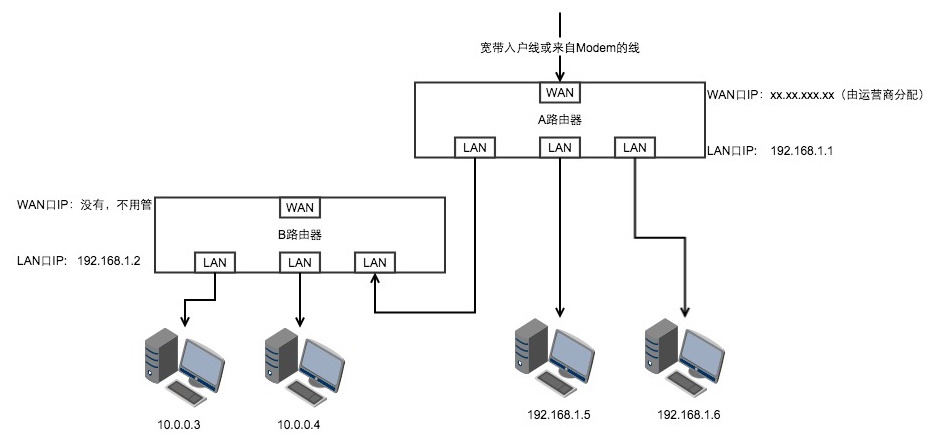
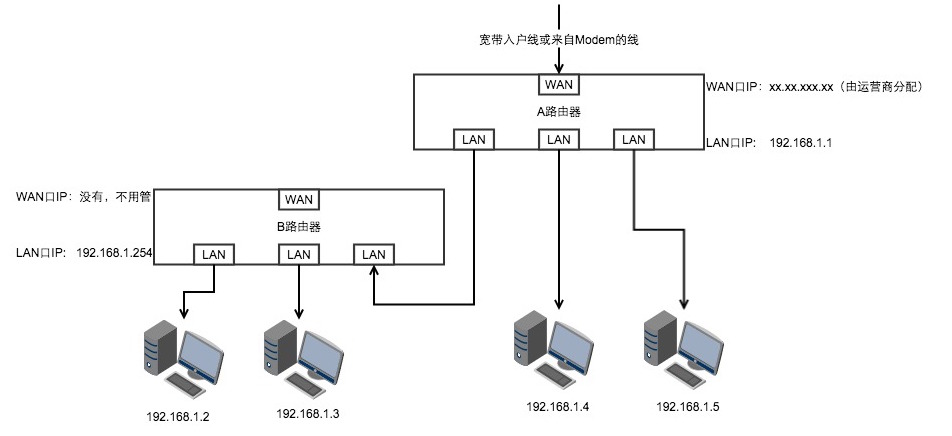
Site updated: 2015-08-31 00:28:40

Changed region(s): [[0.0, 0.03, 0.9893, 0.9885]]

diff --git a/post/set-multilevel-routers/index.html b/post/set-multilevel-routers/index.html
@@ -20,7 +20,7 @@
 <meta property="og:image" content="http://czzshr.com/img/set-mutilevel-routers-1.jpg">
 <meta property="og:image" content="http://czzshr.com/img/set-mutilevel-routers-2.jpg">
 <meta property="og:image" content="http://czzshr.com/img/set-mutilevel-routers-3.jpg">
-<meta property="og:updated_time" content="2015-08-22T12:13:27.000Z">
+<meta property="og:updated_time" content="2015-08-30T16:27:44.000Z">
 <meta name="twitter:card" content="summary">
 <meta name="twitter:title" content="设置多级路由器">
 <meta name="twitter:description" content="生活中我们很多情况下会设置多级路由，如一级路由器的无线信号太弱、一级路由器不能发射无线信号等原因。这种这种情况下就需要设置多级路由了。相比于仅仅设置一级路由来说，设置二级路由则麻烦了许多，一不小心，不光会自己上不了网，还可能会把别人也搞得上不了网。">
@@ -109,9 +109,9 @@
 <p>以后凡是接在B路由器LAN口上的电脑的IP地址的范围为“10.0.0.1”至“10.0.0.254”之间，子网掩码：255.255.255.0，网关：10.0.0.1，DNS：10.0.0.1。当然电脑也可选择“自动获得ip地址”和“自动获得DNS服务器地址”</p>
 <h3 id="1-3-_连接A路由器和B路由器">1.3. 连接A路由器和B路由器</h3><p>如下图所示，将宽带或Modem的LAN口与A路由器的WAN口相连，A路由器的LAN口与B路由器的WAN口用网线相连。至此，由两个路由器组建的局域网完成。<br><img src="http://czzshr.com/img/set-mutilevel-routers-2.jpg" alt=""></p>
 <h2 id="2-_路由用作交换机设置法">2. 路由用作交换机设置法</h2><h3 id="2-1-_对A路由器进行设置">2.1. 对A路由器进行设置</h3><p>将一台电脑与A路由器的LAN口相连（通过网线或者无线），打开浏览器在地址栏输入“192.168.1.1”，开启DHCP服务器；在路由器配置界面中将LAN接口设置为：192.168.1.1，子网掩码：255.255.255.0，WAN口地址按默认设置或从网络服务商那里获取。设置完成后重启A路由器。至此，A路由器的设置过程完成。</p>
-<p>以后凡是接在A路由器LAN口上的电脑的IP地址的范围为“192.168.1.3”至“192.168.1.254”之间，子网掩码：255.255.255.0，网关:192.168.1.1,DNS:192.168.1.1。当然电脑也可选择“自动获得ip地址”和“自动获得DNS服务器地址”</p>
-<h3 id="2-2-_对B路由器进行设置">2.2. 对B路由器进行设置</h3><p>将一台电脑与B路由器的LAN口相连（通过网线或者无线），打开浏览器在地址栏输入“192.168.1.1”，关闭DHCP服务器；WAN口地址按默认设置或从网络服务商那里获取；在路由器配置界面中将LAN接口设置为：192.168.1.2，子网掩码：255.255.255.0，设置完成后重启A路由器。至此，B路由器的设置过程完成。</p>
-<p>以后凡是接在B路由器LAN口上的电脑的IP地址的范围为“192.168.1.3”至“192.168.1.254”之间，子网掩码：255.255.255.0，网关:192.168.1.1,DNS:192.168.1.1。当然电脑也可选择“自动获得ip地址”和“自动获得DNS服务器地址”.</p>
+<p>以后凡是接在A路由器LAN口上的电脑的IP地址的范围为“192.168.1.2”至“192.168.1.253”之间，子网掩码：255.255.255.0，网关:192.168.1.1,DNS:192.168.1.1。当然电脑也可选择“自动获得ip地址”和“自动获得DNS服务器地址”</p>
+<h3 id="2-2-_对B路由器进行设置">2.2. 对B路由器进行设置</h3><p>将一台电脑与B路由器的LAN口相连（通过网线或者无线），打开浏览器在地址栏输入“192.168.1.1”，关闭DHCP服务器；WAN口地址设为“自动获得IP地址”；在路由器配置界面中将LAN接口设置为：192.168.1.254，子网掩码：255.255.255.0，设置完成后重启A路由器。至此，B路由器的设置过程完成。</p>
+<p>以后凡是接在B路由器LAN口上的电脑的IP地址的范围为“192.168.1.2”至“192.168.1.253”之间，子网掩码：255.255.255.0，网关:192.168.1.1,DNS:192.168.1.1。当然电脑也可选择“自动获得ip地址”和“自动获得DNS服务器地址”.</p>
 <h3 id="2-3-_连接A路由器和B路由器">2.3. 连接A路由器和B路由器</h3><p>如下图所示，将宽带或Modem的LAN口与A路由器的<strong>LAN口(两种方法最大的不同点)</strong>相连，A路由器的LAN口与B路由器的WAN口用网线相连。至此，由两个路由器组建的局域网完成。<br><img src="http://czzshr.com/img/set-mutilevel-routers-3.jpg" alt=""></p>
 <h2 id="3-_参考">3. 参考</h2><p><a href="http://blog.sina.com.cn/s/blog_e299aef20101im1v.html" target="_blank" rel="external">两台无线路由器怎么连接</a><br><a href="http://www.zhihu.com/question/31971222" target="_blank" rel="external">在公司如何设置路由器才能避免干扰到其他人上网？</a></p>
   
